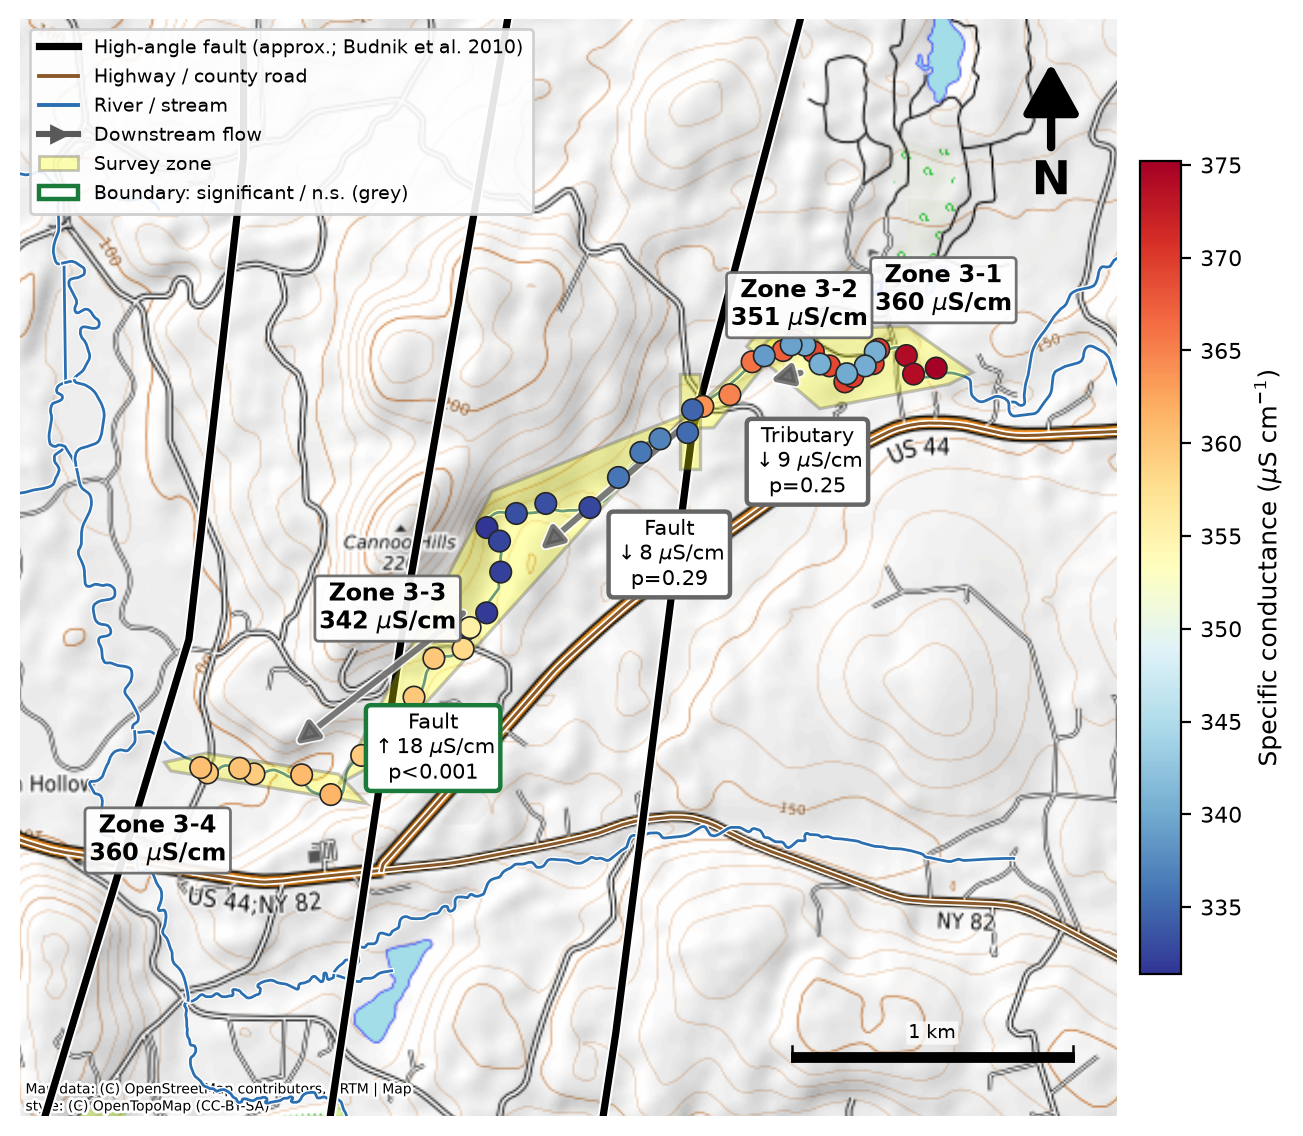
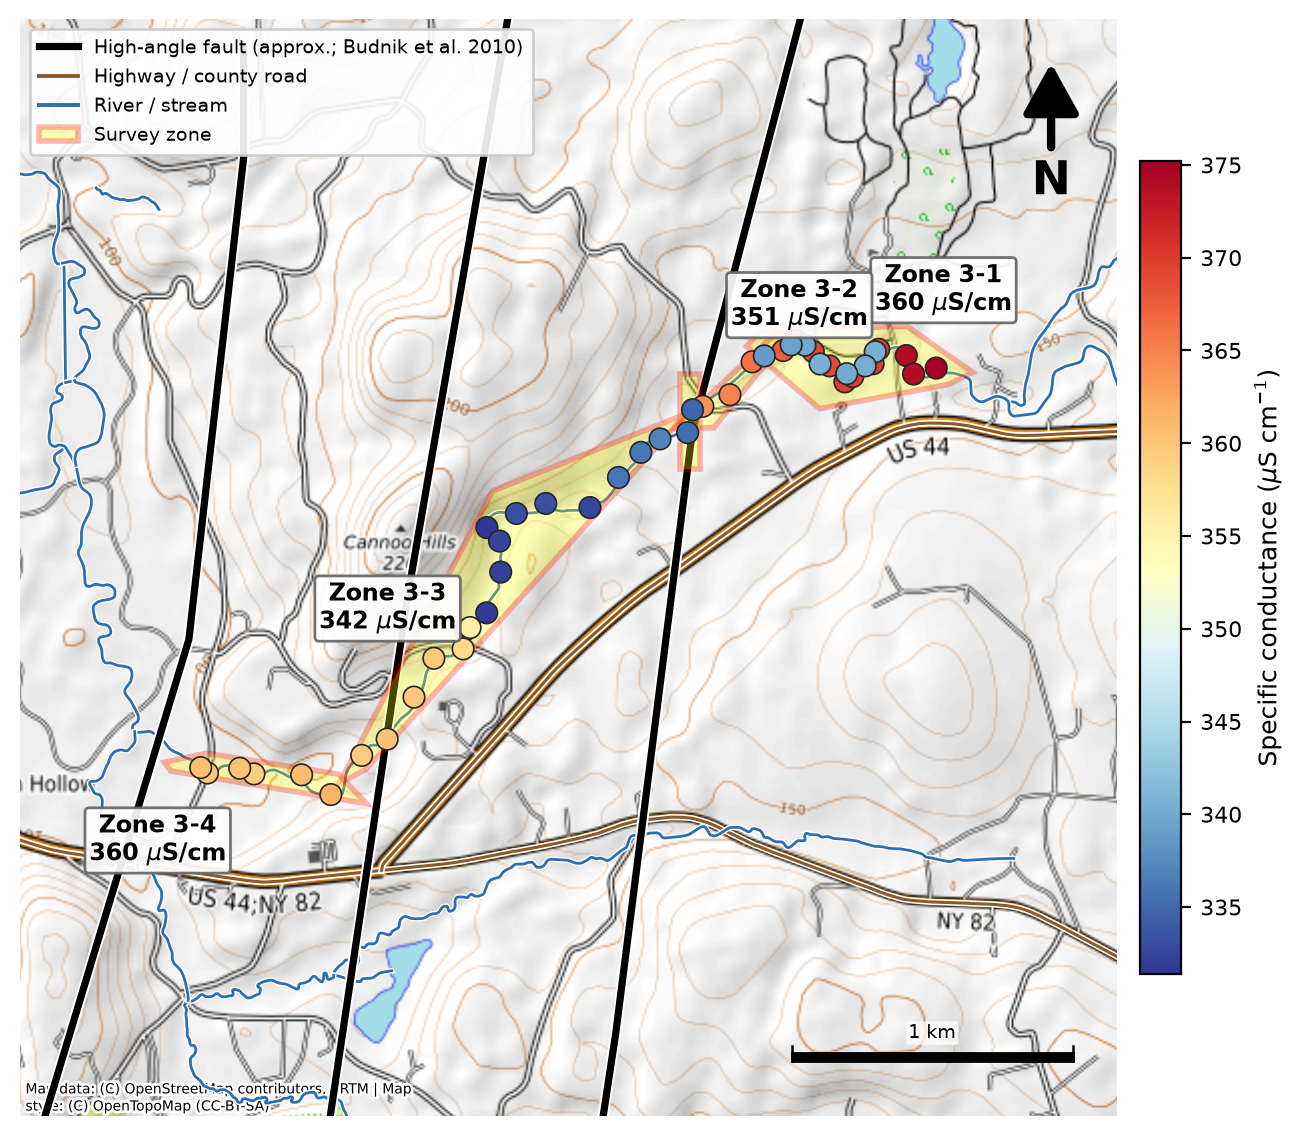
Site maps: red zone borders; drop flow arrow and transition boxes
- Zones now have a bold red border (easier to discern, esp. Site 2)
- Remove the grey downstream-flow arrow and the per-boundary feature/result
  boxes; downstream ordering is stated in the captions (zones numbered
  ascending downstream) and the stats live in Table 1
- Simplify the legend accordingly; captions updated

diff --git a/src/maps.py b/src/maps.py
@@ -185,8 +185,8 @@ def _runs(xs, ys):
         yield xs[s:e], ys[s:e]
 
 
-def _zone_patch(ax, xs, ys, pad, facecolor="yellow", alpha=0.30,
-                edgecolor="0.25", zorder=4):
+def _zone_patch(ax, xs, ys, pad, facecolor="yellow", alpha=0.28,
+                edgecolor="red", zorder=4):
     """Shade a survey zone as a padded convex hull (highlighted region)."""
     from scipy.spatial import ConvexHull, QhullError
 
@@ -205,7 +205,7 @@ def _zone_patch(ax, xs, ys, pad, facecolor="yellow", alpha=0.30,
     n = np.linalg.norm(d, axis=1, keepdims=True)
     poly = poly + d / np.maximum(n, 1e-9) * pad  # push vertices out by `pad`
     ax.add_patch(MplPolygon(poly, closed=True, facecolor=facecolor, alpha=alpha,
-                            edgecolor=edgecolor, lw=1.2, zorder=zorder))
+                            edgecolor=edgecolor, lw=2.0, zorder=zorder))
 
 
 def _fault_line(ax, fault_pts, cx0, cy0, half):
@@ -294,42 +294,12 @@ def draw_site(site, df, zframes, cstats):
                     bbox=dict(boxstyle="round,pad=0.18", fc="white",
                               ec="0.4", alpha=0.92))
 
-    # neutral downstream-flow arrow through the zone centroids (upstream->down)
-    path = [centroids[z] for z in zones if z in centroids]
-    for (xa, ya), (xb, yb) in zip(path[:-1], path[1:]):
-        ax.add_patch(FancyArrowPatch((xa, ya), (xb, yb), arrowstyle="-|>",
-                                     mutation_scale=16, color="0.35", lw=2.2,
-                                     zorder=5, shrinkA=18, shrinkB=18,
-                                     alpha=0.8, path_effects=halo(3.5)))
-
     # survey points -- solid dots (dark edge so mid-range colours stay visible)
     for z in zones:
         fr = zframes[z]
         xs, ys = zip(*[merc(lo, la) for lo, la in zip(fr["lon"], fr["lat"])])
         ax.scatter(xs, ys, c=fr["EC"].to_numpy(dtype=float), cmap=EC_CMAP,
                    norm=norm, s=60, edgecolor="0.15", linewidth=0.6, zorder=6)
-
-    # transition boxes at each boundary: feature + result (green=sig, grey=n.s.)
-    for name, a, b, kind in CONTRASTS:
-        if a not in centroids or b not in centroids:
-            continue
-        r = cstats[name]
-        (xa, ya), (xb, yb) = centroids[a], centroids[b]
-        feat = "Fault" if kind == "fault" else "Tributary"
-        d = r["delta"]
-        sigcol = "#1a7a3a" if r["welch_p"] < 0.05 else "0.4"
-        psig = "p<0.001" if r["welch_p"] < 0.001 else f"p={r['welch_p']:.2f}"
-        arrow = "$\\uparrow$" if d > 0 else "$\\downarrow$"
-        dmag = "<1" if abs(d) < 1 else f"{abs(d):.0f}"
-        txt = f"{feat}\n{arrow}{dmag} $\\mu$S/cm\n{psig}"
-        dx, dy = xb - xa, yb - ya
-        L = math.hypot(dx, dy) or 1.0
-        ox, oy = -dy / L, dx / L
-        off = half * 0.16
-        ax.text((xa + xb) / 2 + ox * off, (ya + yb) / 2 + oy * off, txt,
-                color="black", fontsize=7.5, zorder=9, ha="center", va="center",
-                bbox=dict(boxstyle="round,pad=0.25", fc="white", ec=sigcol,
-                          lw=1.6))
 
     add_scalebar(ax, _round_scale(half * math.cos(math.radians(clat))), clat)
     north_arrow(ax)
@@ -342,12 +312,8 @@ def draw_site(site, df, zframes, cstats):
                label="High-angle fault (approx.; Budnik et al. 2010)"),
         Line2D([0], [0], color="#8a5a2b", lw=1.4, label="Highway / county road"),
         Line2D([0], [0], color="#2b6fb0", lw=1.4, label="River / stream"),
-        Line2D([0], [0], color="0.35", lw=2.2, marker=">",
-               label="Downstream flow"),
-        Patch(facecolor="yellow", alpha=0.3, edgecolor="0.25",
+        Patch(facecolor="yellow", alpha=0.28, edgecolor="red", lw=2.0,
               label="Survey zone"),
-        Patch(facecolor="white", edgecolor="#1a7a3a", lw=1.6,
-              label="Boundary: significant / n.s. (grey)"),
     ]
     ax.legend(handles=handles, loc="upper left", fontsize=7,
               framealpha=0.9, borderpad=0.5).set_zorder(10)

diff --git a/main.tex b/main.tex
@@ -121,7 +121,7 @@ Site 1 was split into two zones (Zone 1-1 and Zone 1-2), with a single contrast 
 \begin{figure}[htbp]
 	\centering
 	\includegraphics[width=0.62\linewidth]{figures/site1.png}
-	\caption{Site 1 on a terrain base with highways/county roads (brown) and streams (blue). Survey points are coloured by specific conductance; shaded regions are the survey zones (labelled with their mean specific conductance). The grey arrow shows downstream flow, and the boxed annotation gives the Welch $t$-test result across the boundary (green outline = significant at $\alpha=0.05$, grey = not). High-angle faults (thick black lines) are approximate, digitized from \citet{budnik2010}.}
+	\caption{Site 1 on a terrain base with highways/county roads (brown) and streams (blue). Survey points are coloured by specific conductance; red-outlined regions are the survey zones, labelled with their mean specific conductance. Zones are numbered in ascending order downstream (Zone 1-1 upstream, 1-2 downstream). High-angle faults (thick black lines) are approximate, digitized from \citet{budnik2010}. Statistical comparisons between zones are given in Table~\ref{tab:ttest}.}
 	\label{fig:site1}
 \end{figure}
 
@@ -130,7 +130,7 @@ Site 2 (Figure~\ref{fig:site2}) has one contrast (Contrast B) between two zones 
 \begin{figure}[htbp]
 	\centering
 	\includegraphics[width=0.52\linewidth]{figures/site2.png}
-	\caption{Site 2, symbolised as in Figure~\ref{fig:site1}: terrain base, roads (brown) and streams (blue), survey points coloured by specific conductance, shaded survey zones (with mean specific conductance), downstream-flow arrow (grey), and the boundary Welch $t$-test result (green outline = significant). High-angle faults (thick black) are approximate, digitized from \citet{budnik2010}.}
+	\caption{Site 2, symbolised as in Figure~\ref{fig:site1}: terrain base, roads (brown) and streams (blue), survey points coloured by specific conductance, and red-outlined survey zones labelled with their mean specific conductance. Zones are numbered in ascending order downstream. High-angle faults (thick black) are approximate, digitized from \citet{budnik2010}. Statistical comparisons between zones are given in Table~\ref{tab:ttest}.}
 	\label{fig:site2}
 \end{figure}
 
@@ -139,7 +139,7 @@ Site 3 (Figure~\ref{fig:site3}) contains four zones (Zones 3-1, 3-2, 3-3, and 3-
 \begin{figure}[htbp]
 	\centering
 	\includegraphics[width=0.85\linewidth]{figures/site3.png}
-	\caption{Site 3, symbolised as in Figure~\ref{fig:site1}: terrain base, roads (brown) and streams (blue), survey points coloured by specific conductance, shaded survey zones (with mean specific conductance), downstream-flow arrow (grey), and the boundary Welch $t$-test results (green outline = significant, grey = not). The fault crossing between Zones 3-3 and 3-4 shows a significant increase; the tributary and the weaker fault crossing do not. High-angle faults (thick black) are approximate, digitized from \citet{budnik2010}.}
+	\caption{Site 3, symbolised as in Figure~\ref{fig:site1}: terrain base, roads (brown) and streams (blue), survey points coloured by specific conductance, and red-outlined survey zones labelled with their mean specific conductance. Zones are numbered in ascending order downstream. High-angle faults (thick black) are approximate, digitized from \citet{budnik2010}. Across the fault crossing between Zones 3-3 and 3-4 the mean specific conductance increases sharply, whereas the tributary junction and the weaker fault crossing show little change; statistical comparisons are given in Table~\ref{tab:ttest}.}
 	\label{fig:site3}
 \end{figure}
 
